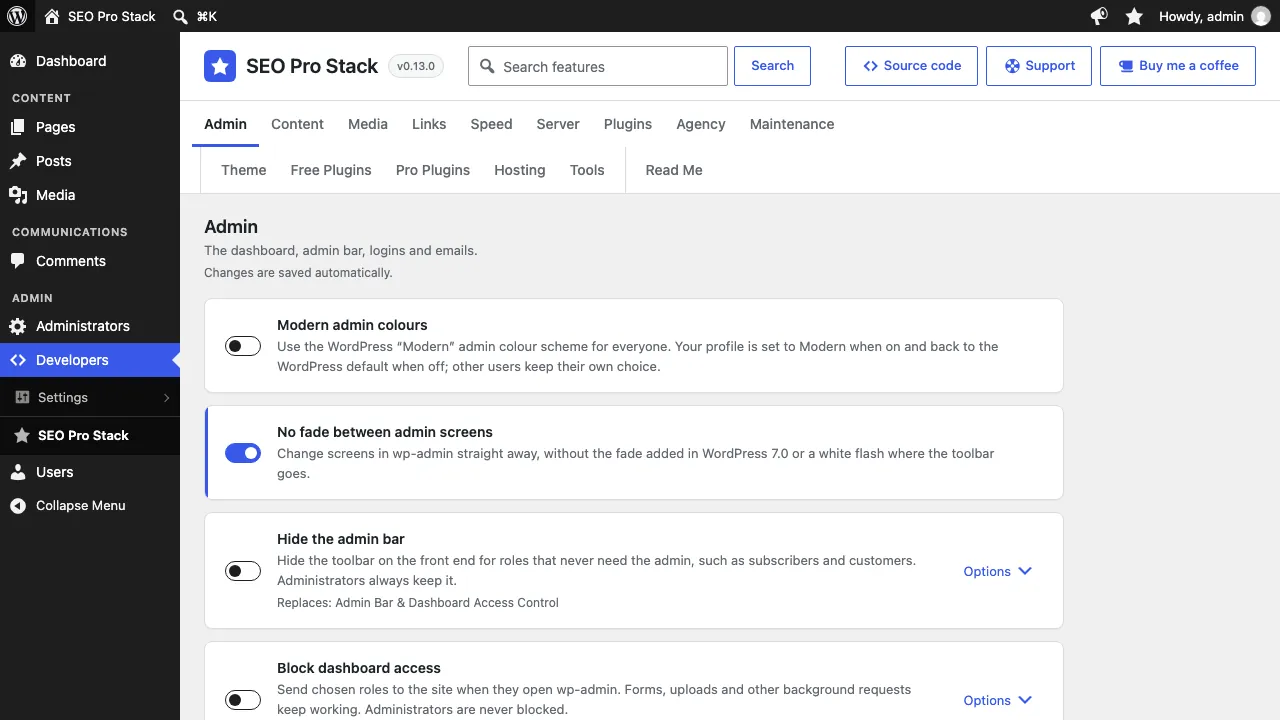
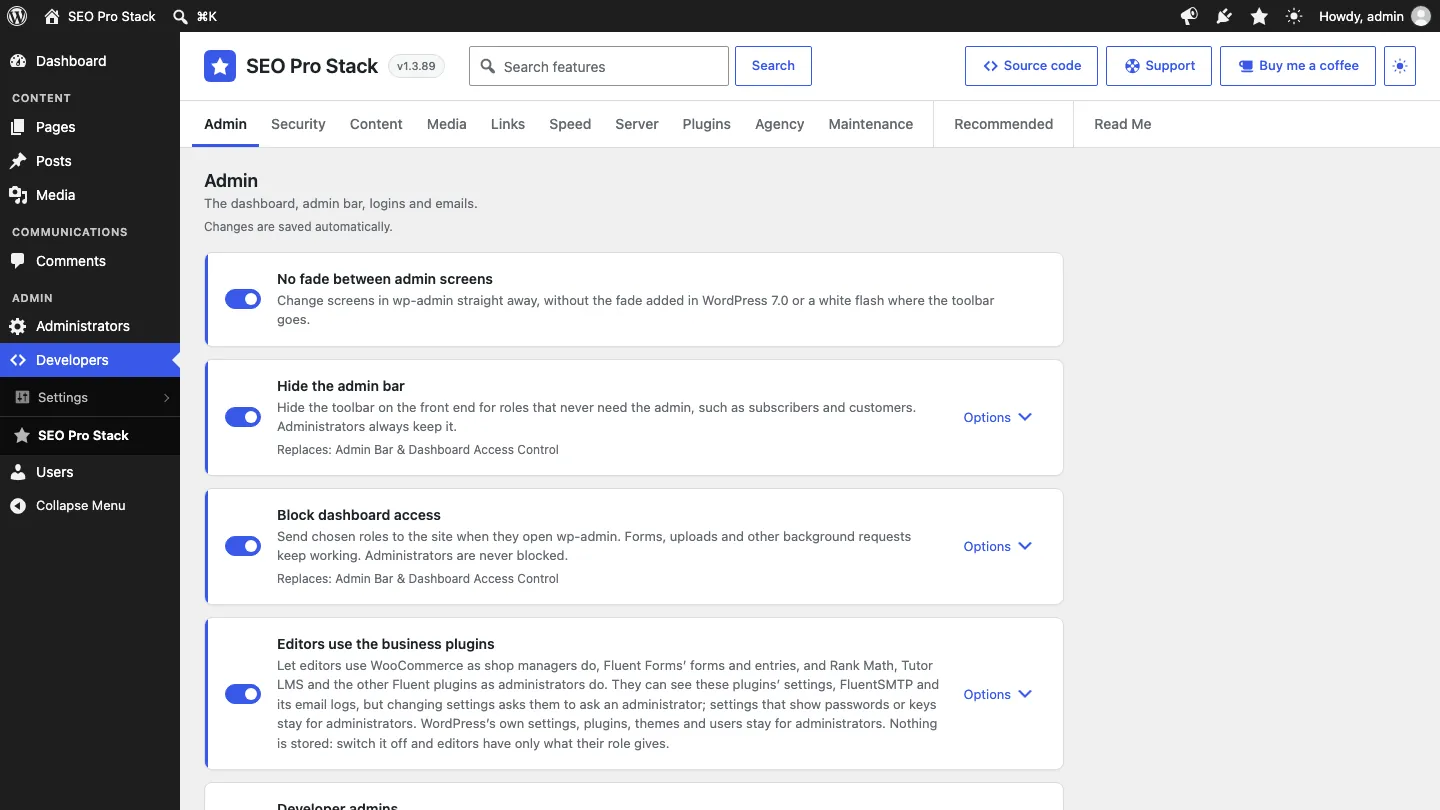
wip: retake screenshots on 1.3.89

diff --git a/README.md b/README.md
@@ -29,13 +29,13 @@ Version: 1.3.89
 <!-- github-only:start -->
 ## Screenshots
 
-**Settings → SEO Pro Stack**: the Admin tab, with search and the Source code, Support and Buy me a coffee links.
+**Settings → SEO Pro Stack**: the Admin tab, with search, the Source code, Support and Buy me a coffee links and the Light / Dark / System button. Admin features that are safe on any site are on from the start.
 
 ![The SEO Pro Stack settings screen on the Admin tab](.wordpress-org/screenshot-1.png)
 
 **The Speed tab**: each feature is one switch, with its options and the plugin it replaces.
 
-![The Speed tab with Load pages before the click switched on](.wordpress-org/screenshot-2.png)
+![The Speed tab with Recommended speed settings and Load pages before the click switched on](.wordpress-org/screenshot-2.png)
 
 **The Read Me tab** shows this file inside WordPress, banner included.
 
